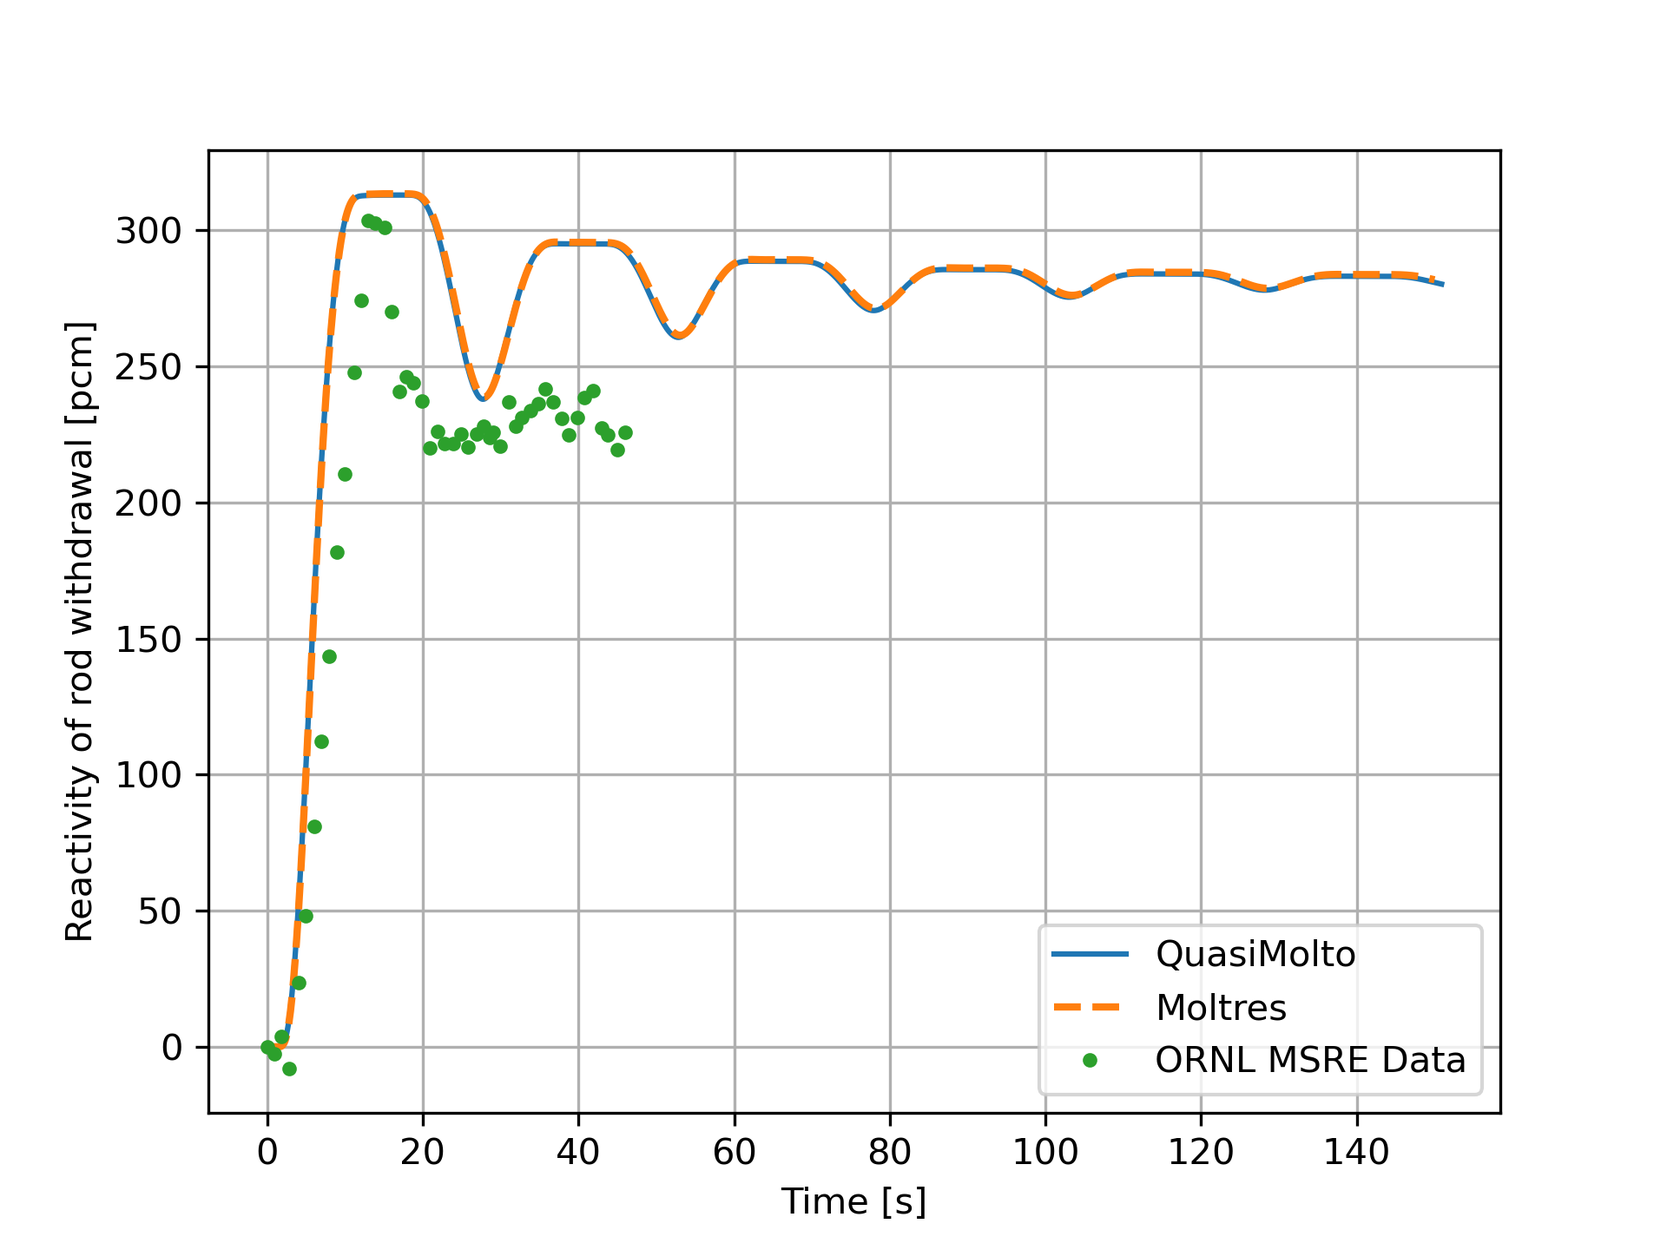
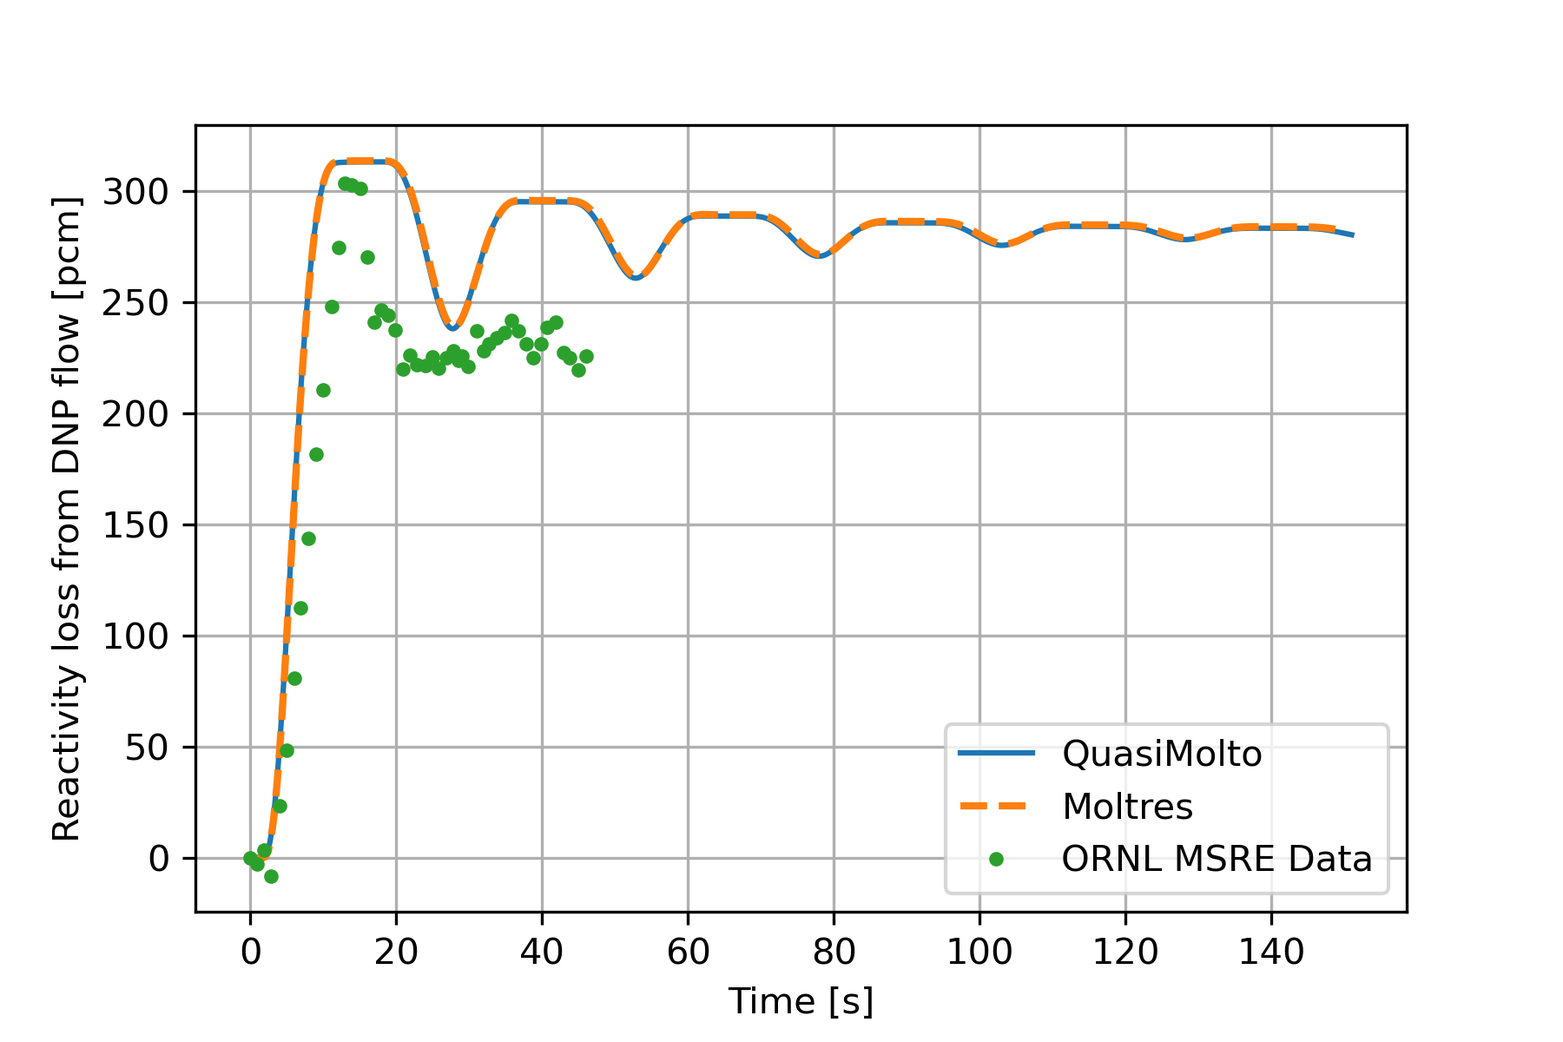
verification chapter edits

diff --git a/msre-pump.tex b/msre-pump.tex
@@ -1,7 +1,11 @@
 This section covers a \gls{VV} study based on the \gls{MSRE} zero-power pump
 start-up and coast-down pump transient tests. In collaboration with Aaron Reynolds (formerly from
-Oregon State University, we verified and validated the looped \gls{DNP} flow modeling capability of
+Oregon State University) we verified and validated the looped \gls{DNP} flow modeling capability of
 our respective reactor simulation software, Moltres and QuasiMolto \cite{reynolds_analysis_2023}.
+This study offers a more formal assessment of \gls{DNP} flow modeling in Moltres than previous
+work described in Section \ref{sec:moltres-previous}, by verifying Moltres against QuasiMolto in
+the context of a past experiment on the \gls{MSRE}. Moltres and QuasiMolto also benefited from this
+collaborative study through the discovery and correction of previously unnoticed bugs.
 
 \subsection{Description of MSRE Pump Transient Tests}
 
@@ -65,7 +69,14 @@ control rod positions (Figure \ref{fig:msre-pump-rod}) with the control rod inte
   \end{minipage}
 \end{figure}
 
-\subsection{Description of QuasiMolto}
+\subsection{Description of Reactor Software}
+
+Section \ref{sec:moltres-description} provides general details on the neutronics and \gls{DNP}
+models implemented with \gls{FEM} in Moltres. In this study, the neutron flux and \gls{DNP}
+variables were approximated using continuous 1st-order Lagrange and discontinuous 2nd-order
+monomial basis functions, respectively. The calculations for the neutron flux in the core,
+\gls{DNP} in the core, and \gls{DNP} outside the core were tightly coupled using the fixed point
+iteration capability available through the MOOSE MultiApp system \cite{gaston_physics-based_2015}.
 
 QuasiMolto \cite{reynolds_analysis_2023} is an open-source multiphysics research code for
 simulating circulating fuel reactor kinetics. It uses the multilevel \gls{QD} methodology described
@@ -79,8 +90,9 @@ couple with the \gls{DNP} and temperature governing equations for multiphysics r
 from temperature and \gls{DNP} flow. Readers may refer to the linked reference
 \cite{reynolds_analysis_2023} for more details on QuasiMolto.
 
-QuasiMolto applies the simple corner balance method
-\cite{adams_subcell_1997} for spatial discretization.
+QuasiMolto applies the simple corner balance method \cite{adams_subcell_1997} for spatial
+discretization. The simple corner balance method is a subcell, finite-volume method that subdivides
+each mesh element into four equal subcells on each mesh corner.
 For this study, the QuasiMolto \gls{MSRE} model employed $S_2$ neutron transport to facilitate
 fair comparisons with the neutron diffusion method in Moltres. For time-dependent \gls{DNP} flow
 modeling, QuasiMolto applies implicit Euler scheme for the reaction
@@ -88,11 +100,11 @@ and diffusion terms, and explicit Superbee flux limiter scheme for the advection
 
 \subsection{Modeling Approach}
 
-For this study, we adopted a 2-D axisymmetric (R-Z) model of the \gls{MSRE} consisting of
+For this study, we adopted a 2-D axisymmetric (R-Z) geometry of the \gls{MSRE} consisting of
 alternating vertical regions of molten salt and graphite moderator. This is the same \gls{MSRE}
-model Reynolds developed for his PhD thesis \cite{reynolds_multilevel_2020} and a related
+geometry from Reynolds' PhD thesis \cite{reynolds_multilevel_2020} and
 journal publication \cite{reynolds_analysis_2023}. Figure \ref{fig:pump-geom} depicts the 2-D
-axisymmetric \gls{MSRE} model. The fuel salt channels are 1.25-cm wide and spaced at 5-cm intervals
+axisymmetric \gls{MSRE} model. The fuel salt channels are 1.25-cm-wide and spaced at 5 cm intervals
 in the graphite matrix. The fuel salt volume fraction of this model is 0.236, differing
 slightly to the \gls{MSRE} design specification of 0.225 \cite{robertson_msre_1965}. The geometry
 mesh is uniform with a width of $\Delta r=0.078125$ cm and height of $\Delta z=5$ cm.
@@ -100,7 +112,7 @@ Vacuum boundary conditions for the neutron flux apply along the top, bottom, and
 
 The salt flows
 upwards at a spatially uniform velocity rate of 18.085 cm s$^{-1}$. \glspl{DNP} flow out of the
-core model and through a separate 285-cm long 1-D pipe model before being reintroduced through the
+core model and through a separate 285-cm-long 1-D pipe model before being reintroduced through the
 bottom core channel inlets. The 1-D pipe length maintains the overall salt circulation time of
 25.2 s from the \gls{MSRE} design specification \cite{robertson_msre_1965}. Note that the salt
 velocity and 1-D pipe length in this study differs from the \gls{MSRE} model described in Reynolds'
@@ -127,18 +139,18 @@ and salt-to-graphite ratios from the \gls{MSRE} design specifications.
 Prior to the pump transient simulations, we performed code-to-code verification by comparing the
 $k_\text{eff}$ and neutron flux and \gls{DNP} distributions of the 2-D \gls{MSRE} model under
 static, no salt flow conditions. We sampled the neutron flux and \gls{DNP} distributions on
-mesh corners and edge centers along the centerline ($r=0$ cm) and midplane ($z=85$ cm) of the
-reactor geometry.
+mesh corners and edge centers along the centerline ($r=0$ cm) and on mesh edge centers along
+the midplane ($z=85$ cm) of the reactor geometry.
 
 In lieu of reactivity control using a control rod in the pump
-transient simulations, QuasiMolto and Moltres solved their respective
+transient simulations, Moltres and QuasiMolto solved their respective
 two-group $k$-eigenvalue neutronics models at every time-step. The $1/k_\text{eff}$ scaling factor
 in the fission neutron source term keeps the simulation at a pseudo-critical state. The \gls{DNP}
 source term is also scaled by $1/k_\text{eff}$ at every time-step. We interpolated the \gls{MSRE}
 salt flow velocity data in Figures \ref{fig:msre-startup} and \ref{fig:msre-coastdown} to apply in
 our pump start-up and coast-down simulations. The pump start-up simulation starts from a static
 state with no salt flow while the pump coast-down simulation starts from a steady flow state with
-operating salt flow.
+operating salt flow. Both simulations used a fixed time-step size of 0.1 s.
 
 \subsection{Results \& Discussion}
 
@@ -147,7 +159,7 @@ and steady salt flow conditions. Table \ref{table:msre-pump-keff} lists the $k_\
 estimates under static and steady flow conditions, and the reactivity changes due to \gls{DNP}
 flow. Moltres and QuasiMolto show excellent agreement with 22 and 21 pcm absolute differences in
 $k_\text{eff}$ under static and steady flow conditions, respectively. Consequently, the
-$\Delta\rho$ estimates from \gls{DNP} flow fall within 1 pcm difference of each other.
+$\Delta\rho$ estimates from \gls{DNP} flow fall within less than 1 pcm difference of each other.
 
 \begin{table}[htb]
   \centering
@@ -168,9 +180,9 @@ $\Delta\rho$ estimates from \gls{DNP} flow fall within 1 pcm difference of each 
 
 Moving on to comparing spatial distributions, we start with the centerline neutron flux
 distributions. Figure \ref{fig:centerline-flux-dist} shows the normalized group 1 and 2 neutron
-fluxes exhibiting nearly perfect overlap. The flux ratio distributions in Figure
-\ref{fig:centerline-flux-ratio} illustrate the strong agreement between Moltres and QuasiMolto at
-all sampled locations with the relative differences falling below 0.8\%. We attribute
+fluxes exhibiting nearly perfect overlap. The QuasiMolto-to-Moltres flux ratio distributions in
+Figure \ref{fig:centerline-flux-ratio} illustrate the strong agreement between Moltres and
+QuasiMolto at all sampled locations with the relative differences falling below 0.8\%. We attribute
 the oscillations in the flux ratios to differences in spatial discretization schemes. Moltres
 uses \gls{FEM} with 1st-order flux values computed at the mesh corners. QuasiMolto uses
 the simple corner balance method which subdivides each mesh element into four equal subcells and
@@ -182,9 +194,9 @@ method vacuum boundary condition in Moltres depends on the scalar flux gradient 
 order derivative) while the $S_2$ method vacuum boundary condition in QuasiMolto depends on the
 angular flux value. Combined with the different spatial discretization schemes, flux differences at
 the boundary are expected in numerical calculations. Nevertheless, the overall ratio magnitudes
-remain small, thereby supporting code-to-code consistency between Moltres and QuasiMolto.
+remain small, thereby showing that Moltres and QuasiMolto are consistent with each other.
 
-\begin{figure}[htb]
+\begin{figure}[t]
   \centering
   \begin{subfigure}[b]{0.48\columnwidth}
     \centering
@@ -202,29 +214,40 @@ remain small, thereby supporting code-to-code consistency between Moltres and Qu
   \caption{Centerline neutron flux distributions and ratios comparing QuasiMolto and Moltres
   \gls{MSRE} models under static conditions.}
   \label{fig:centerline-flux}
-\end{figure}
-
-\begin{figure}[htb]
-  \centering
   \begin{subfigure}[b]{0.48\columnwidth}
     \centering
     \includegraphics[width=\columnwidth]{midplane_flux}
     \caption{Normalized midplane neutron fluxes.}
-    \label{fig:centerline-flux-dist}
+    \label{fig:midplane-flux-dist}
   \end{subfigure}
   \hfill
   \begin{subfigure}[b]{0.48\columnwidth}
     \centering
     \includegraphics[width=\columnwidth]{midplane_flux_ratio}
     \caption{Ratio of midplane neutron fluxes.}
-    \label{fig:centerline-flux-ratio}
+    \label{fig:midplane-flux-ratio}
   \end{subfigure}
   \caption{Midplane neutron flux distributions and ratios comparing QuasiMolto and Moltres
   \gls{MSRE} models under static conditions.}
-  \label{fig:centerline-flux}
+  \label{fig:midplane-flux}
 \end{figure}
 
-\begin{figure}[htb]
+The midplane normalized neutron flux and flux ratio distributions in Figures
+\ref{fig:midplane-flux-dist} and \ref{fig:midplane-flux-ratio} also show consistency between
+Moltres and QuasiMolto through nearly perfect flux overlap and small flux ratios. Minor
+discretization errors arising from comparing continuous (Moltres) and discontinuous (QuasiMolto)
+fluxes contribute to discrete jumps in the flux ratios at the salt-graphite interfaces. Despite
+these deviations,
+the maximum midplane flux ratio of 1.001 remains much lower than the maximum centerline flux ratio
+of 1.008. Fine mesh resolution along the radial direction helps the vacuum boundary flux values
+converge. The centerline and midplane \gls{DNP} distributions and ratios in Figures
+\ref{fig:centerline-pre} and \ref{fig:midplane-pre} continue to show good agreement between Moltres
+and QuasiMolto. Figures \ref{fig:centerline-pre-dist} and \ref{fig:midplane-pre-dist} depict only
+the normalized centerline and midplane \gls{DNP} distributions from Moltres to reduce visual
+clutter. Combining all observations thus far, Moltres and QuasiMolto are consistent with each other
+under static and steady salt flow conditions.
+
+\begin{figure}[t]
   \centering
   \begin{subfigure}[b]{0.48\columnwidth}
     \centering
@@ -240,13 +263,8 @@ remain small, thereby supporting code-to-code consistency between Moltres and Qu
     \label{fig:centerline-pre-ratio}
   \end{subfigure}
   \caption{Centerline \gls{DNP} distribution from Moltres and ratios comparing QuasiMolto and
-  Moltres models under static \gls{MSRE} conditions. The ratio curves for every \gls{DNP} group
-  exhibit nearly perfect overlap.}
+  Moltres models under static \gls{MSRE} conditions. The ratio curves overlap perfectly.}
   \label{fig:centerline-pre}
-\end{figure}
-
-\begin{figure}[htb]
-  \centering
   \begin{subfigure}[b]{0.48\columnwidth}
     \centering
     \includegraphics[width=\columnwidth]{midplane_pre}
@@ -262,30 +280,103 @@ remain small, thereby supporting code-to-code consistency between Moltres and Qu
   \end{subfigure}
   \caption{Midplane \gls{DNP} distribution from Moltres and ratios comparing QuasiMolto and Moltres
   models under static \gls{MSRE} conditions. \glspl{DNP} exist only in the fuel channel regions.
-  The ratio curves for every \gls{DNP} group exhibit nearly perfect overlap.}
+  The ratio curves overlap perfectly.}
   \label{fig:midplane-pre}
 \end{figure}
 
-\begin{figure}[htb]
+\begin{figure}[t]
   \centering
-  \includegraphics[width=0.9\columnwidth]{start-up-v2-reactivity}
-  \caption{Reactivity (relative to static no-flow conditions) during the \gls{MSRE} pump start-up
-  transient. The Moltres and QuasiMolto models agree closely with each other. The numerical models
-  report greater peak and final reactivity change than the \gls{ORNL} \gls{MSRE} experimental
-  data.}
+  \includegraphics[width=0.8\columnwidth]{start-up-v2-reactivity}
+  \caption{Reactivity loss (relative to static no-flow conditions) during the \gls{MSRE} pump
+  start-up transient. The Moltres and QuasiMolto models agree closely with each other. The
+  numerical models report greater peak and final reactivity change than the \gls{ORNL} \gls{MSRE}
+  experimental data.}
   \label{fig:start-up-reactivity}
 \end{figure}
 
-\begin{figure}[htb]
+Figure \ref{fig:start-up-reactivity} shows the change in reactivity loss relative to the static
+condition during the pump start-up transient. Moltres and QuasiMolto report nearly identical
+responses throughout the transient. Both codes and the \gls{ORNL} experimental data indicate a
+steep increase in reactivity loss caused by the loss of \glspl{DNP} flowing out of the core with no
+\glspl{DNP} flowing in. The reactivity loss peaks and plateaus starting around $t=12$ s for Moltres
+and QuasiMolto and $t=13$ s for the \gls{ORNL} data. From the \gls{ORNL} data, the reactivity loss
+drops after 2 s and stabilizes at around 225 pcm. From $t=30$ s onwards, the \gls{ORNL} reactivity
+readings appear to be noisy with no obvious trend. In contrast, Moltres and
+QuasiMolto report reactivity oscillations caused by the initial pocket of \gls{DNP} reentering the
+core every salt recirculation cycle of 25.2 s. The oscillations eventually dissipate as the
+\glspl{DNP} in the pocket progressively decay away over time. Reactivity loss from both codes
+level out at around 282 pcm which is consistent with the reactivity change due to \gls{DNP} flow
+from the steady salt flow case in Table \ref{table:msre-pump-keff}.
+
+Three key differences stand out between the numerical results and \gls{ORNL} data. 1) The
+\gls{ORNL} data logged a smaller reactivity loss of 225 pcm compared to 282 pcm from the
+numerical results. 2) The \gls{ORNL} data logged a shorter reactivity loss plateau on the first
+peak than the numerical results. 3) The \gls{ORNL} data did not log significant reactivity loss
+oscillations after the first peak. These differences in the reactivity loss profile stem mainly
+from the absence of upper and lower plena in the numerical model geometry (Figure
+\ref{fig:pump-geom}).
+
+Since the upper and lower plena comprise largely of salt, they retain some of the \glspl{DNP} which
+we neglected in our numerical model geometry. Robertson \cite{robertson_msre_1965} reports that
+salt residence times in the plena are approximately 4 s each. Therefore, Moltres and QuasiMolto
+reported greater reactivity loss under steady flow conditions. With a combined salt residence time
+of 17.1 s in the lower plenum, active core, and upper
+plenum regions out of a full recirculation time of 25.2 s \cite{robertson_msre_1965}, there should
+not be reactivity plateaus during the pump start-up transient. Lastly, Moltres and QuasiMolto
+applied uniform salt flow and neglected turbulent mixing of \gls{DNP} in the plena and out-of-core
+components. Without mixing, the numerical models preserved the initially static pocket of
+\glspl{DNP} as it advected around the salt loop and produced the reactivity oscillations observed
+in Figure \ref{fig:start-up-reactivity}. Conversely, the plateaus serve as
+useful reference features for verifying advection modeling accuracy for code-to-code verification
+in the context of \gls{MSR} simulations. This pump transient setup can be used to identify
+advection schemes that suffer from excessive numerical diffusion or dispersion effects. The fact
+that Moltres and QuasiMolto produced nearly identical results, despite significant differences in
+their numerical schemes, lends credibility to both sets of results for the purpose of code
+verification.
+
+\begin{figure}[b]
   \centering
-  \includegraphics[width=0.9\columnwidth]{coast-down-v2-reactivity}
-  \caption{Reactivity (relative to static no-flow conditions) during the \gls{MSRE} pump coast-down
-  transient. The Moltres and QuasiMolto models agree closely with each other. The numerical models
-  report greater reactivity change than the \gls{ORNL} \gls{MSRE} experimental data throughout the
-  transient.}
+  \includegraphics[width=0.8\columnwidth]{coast-down-v2-reactivity}
+  \caption{Reactivity loss (relative to static no-flow conditions) during the \gls{MSRE} pump
+  coast-down transient. The Moltres and QuasiMolto models agree closely with each other. The
+  numerical models report greater reactivity change than the \gls{ORNL} \gls{MSRE} experimental
+  data throughout the transient.}
   \label{fig:coast-down-reactivity}
 \end{figure}
 
+Compared to the pump start-up transient, the reactivity loss over time for the pump coast-down
+transient shows a simpler, monotonic decline as shown in Figure \ref{fig:coast-down-reactivity}.
+At the start of the transient, reactivity loss remains stable for 2 s due to inertia in salt flow.
+Following this, the reactivity loss profile transitions into a steep exponential decline as
+\glspl{DNP} accumulate in the increasingly stagnant salt. Other than the mismatch in reactivity
+loss magnitude, Moltres and QuasiMolto reproduce the expected behavior observed in the \gls{ORNL}
+pump coast-down data.
+
 \subsection{Summary}
+
+In collaboration with the developer of QuasiMolto \cite{reynolds_analysis_2023}, we performed a
+\gls{VV} study based on the \gls{MSRE}
+zero-power pump start-up and coast-down transient. This study was designed to assess
+the looped \gls{DNP} flow modeling capabilities in Moltres and QuasiMolto reactor simulation
+software. We used a 2-D axisymmetric model of the \gls{MSRE} to numerically model the pump
+transients.
+
+Moltres and QuasiMolto were consistent with each other in $k$-eigenvalue neutronics simulations
+under static and steady salt flow conditions prior to pump transient simulations. The
+$k_\text{eff}$ estimates from both codes were within 22 and 21 pcm of each other under the static
+and steady flow conditions and the calculated reactivity loss due to \gls{DNP} flow agreed within
+less than 1 pcm. The centerline and midplane flux and \gls{DNP} distributions showed nearly perfect
+overlap with relative differences falling under 0.8\%.
+
+Moltres and QuasiMolto remained consistent with each other in the pump start-up and
+coast-down scenarios. Both codes reproduced most of the trends in reactivity loss from \gls{DNP}
+flow observed in the \gls{ORNL}
+\gls{MSRE} experimental data. Several differences between the numerical and experimental data arose
+primarily due to the absence of upper and lower plena in the numerical model and the omission of
+turbulent mixing. Nevertheless, the numerical results for the pump start-up transient
+simulation captured distinct reactivity oscillations corresponding to the \gls{MSRE} salt
+recirculation period. These oscillations served as valuable reference points for verifying \gls{DNP}
+advection modeling accuracy between Moltres and QuasiMolto. Researchers looking to verify
+their \gls{MSR} simulation software may use the results of this study as a benchmark.
 
 \FloatBarrier

diff --git a/verification.tex b/verification.tex
@@ -1,10 +1,30 @@
+Section \ref{sec:msr-vv} identifies salt flow-induced \gls{DNP} drift and the strong coupling
+between neutronics and thermal-hydraulics as two critical multiphysics interactions that must be
+accurately modeled in \gls{MSR} simulation software. This chapter describes Moltres and
+subsequently covers several \gls{VV} studies for verifying and validating specific modeling
+capabilities in Moltres which relate to the aforementioned multiphysics interactions.
+
+Section \ref{sec:moltres-description} details the neutronics, thermal-hydraulics, and multiphysics
+coupling schemes in Moltres for \gls{MSR} multiphysics simulations. Following the model
+descriptions, the section also summarizes and assesses previous \gls{MSR} analyses
+performed with Moltres. Section \ref{sec:cnrs-benchmark} presents verification results from Moltres
+for the CNRS benchmark study. Section \ref{sec:msre-pump} presents key findings from a
+collaborative \gls{VV} study based on the \gls{MSRE} pump transient tests conducted in the 1960s.
+Section \ref{sec:turbulence} describes the Spalart-Allmaras turbulence model implementation in
+Moltres and presents the model \gls{VV} results against common wall-bounded turbulent flow case
+studies from literature.
+
 \input{moltres}
 \input{benchmark}
 
-\section{MSRE Zero-Power Pump Experiments}
+\section{MSRE Zero-Power Pump Experiments} \label{sec:msre-pump}
 
 \input{msre-pump}
 
-\section{Spalart-Allmaras Turbulence Model Verification}
+\section{Moltres Spalart-Allmaras Turbulence Model Verification} \label{sec:turbulence}
 
 \input{turbulence}
+
+\section{Summary}
+
+

diff --git a/benchmark.tex b/benchmark.tex
@@ -1,4 +1,4 @@
-\section{CNRS Benchmark}
+\section{CNRS Benchmark Verification Study} \label{sec:cnrs-benchmark}
 
 As identified in Section \ref{sec:msfr-critique},
 Moltres will benefit from further \gls{VV} of its
@@ -13,9 +13,9 @@ multiphysics coupling until full coupling is simulated in the final steps. This
 gradual approach helps participants identify sources of discrepancies
 that can arise from differences in modeling assumptions or
 cross-section libraries, or actual errors in the software. I adapted the
-contents of this chapter from my journal article titled
-``\textit{Verification of Moltres for Multiphysics Simulations of Fast-Spectrum
-Molten Salt Reactors}'' and published in the Annals of Nuclear Energy journal
+contents of this chapter from my journal article in the Annals of Nuclear Energy, titled
+\textit{Verification of Moltres for Multiphysics Simulations of Fast-Spectrum
+Molten Salt Reactors}
 \cite{park_verification_2022}.
 
 \input{cnrs-benchmark/benchmark}

diff --git a/moltres.tex b/moltres.tex
@@ -1,6 +1,6 @@
 \section{Description of Moltres} \label{sec:moltres-description}
 
-This chapter provides an overview of Moltres as a multiphysics
+This section provides an overview of Moltres as a multiphysics
 simulation software for molten salt reactors. 
 Section \ref{sec:moltres-features}
 describes the general software features of Moltres, Section

diff --git a/cnrs-benchmark/results.tex b/cnrs-benchmark/results.tex
@@ -1,4 +1,4 @@
-\subsection{Results}
+\subsection{Results \& Discussion}
 
 In this section, we compare the results from Moltres for each CNRS Benchmark
 step to the results in the benchmark paper \cite{tiberga_results_2020}.
